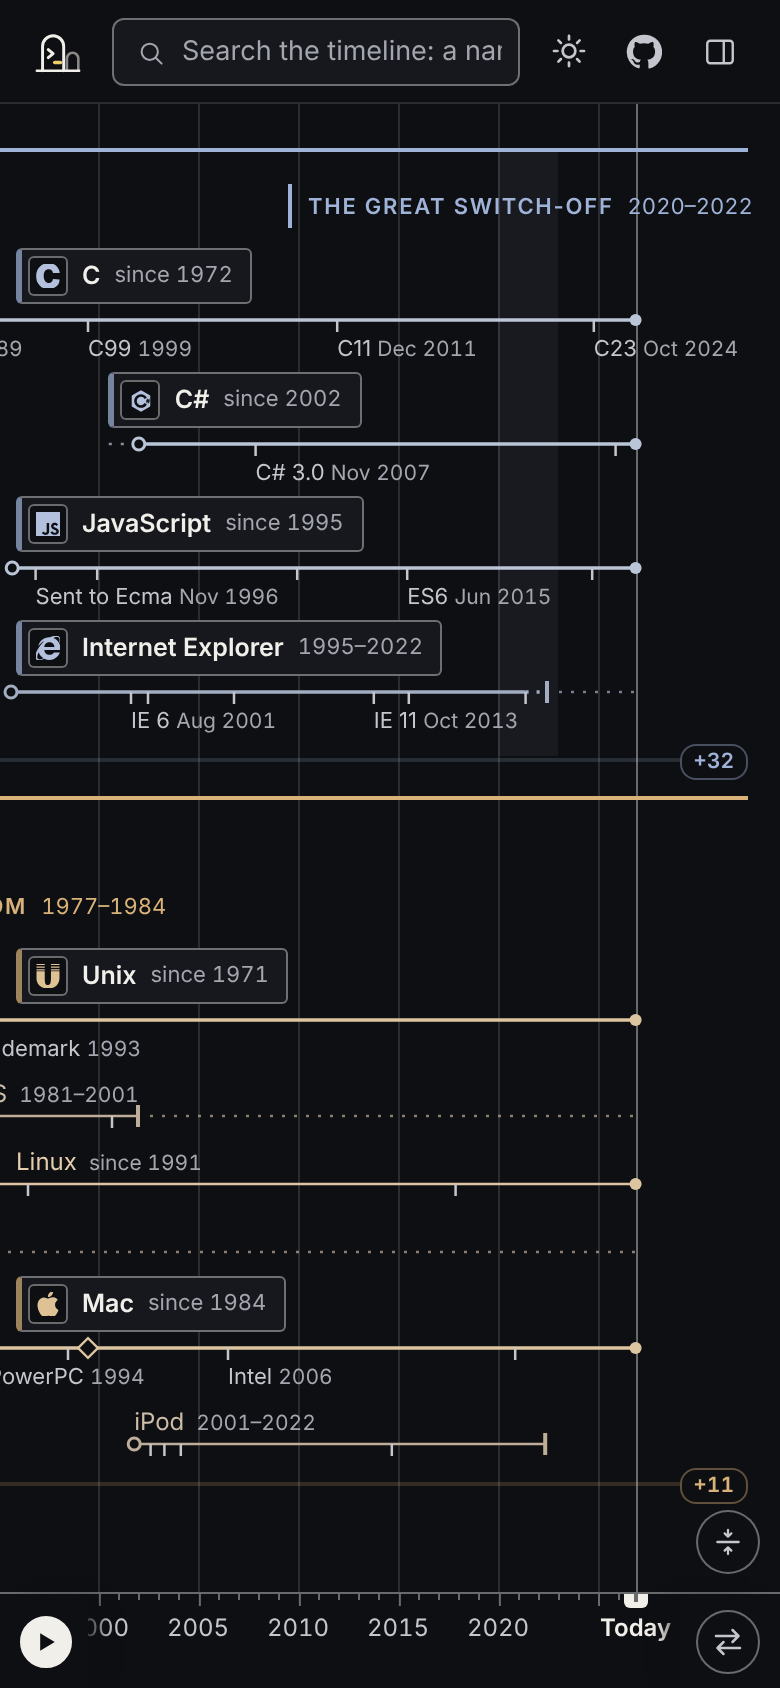
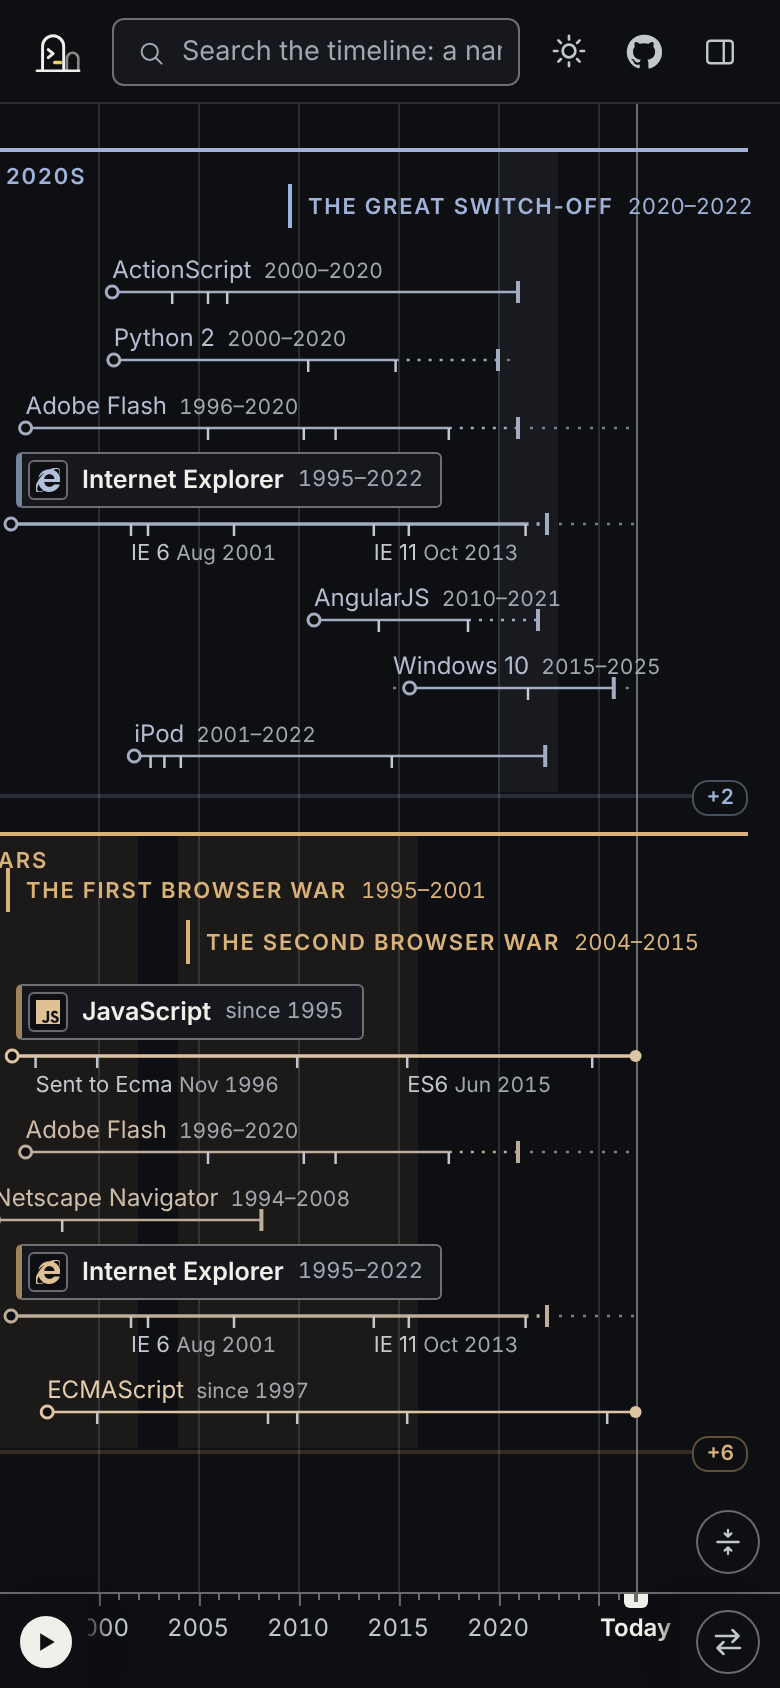
Show every view's own things, merge Classical into Featured, hand-pick the featured views
- A thing in two views on the timeline is now drawn in both sections. Before,
  it was drawn only under the first view, so a view added after one that
  already held all its things showed nothing.
- The panel list has two groups: Featured (every view by codegrave, the
  editors' picks first, then the category views) and Community.
- Endings of the 2020s and The browser wars are hand-picked lists that match
  their stories; the default timeline shows both.
- On phones the last section stops above the Fit button.

Claude-Session: https://claude.ai/code/session_01MCuMSgfje8M48jH2HnMH5A

diff --git a/site/app.js b/site/app.js
@@ -226,22 +226,33 @@ import { WEIGHTS, parseDate, score } from './rank.js';
   // ---------------------------------------------------------------- layout
   // Time runs left to right with the years along the bottom. Each view on the
   // timeline owns a block of rows, one row per thing. A thing that is in two
-  // views is drawn once, under the first.
+  // views is drawn in both, so every view shows all of its own things.
   const PAD_L = 84, PAD_PHONE = 72;  // room at the ends of the axis for play and reverse
   function layout() {
     const SW = $('stage').clientWidth;
     const narrow = SW < 700;
     const newest = state.order === 'new';
 
-    const groupOf = new Map();
+    const groupsOf = new Map();   // thing -> the views on the timeline that hold it
     const selected = state.views.map((id) => viewById.get(id));
-    for (const v of selected) for (const t of membersOf(v, state.level)) if (!groupOf.has(t)) groupOf.set(t, v);
+    const join = (t, v) => { const gs = groupsOf.get(t); if (!gs) groupsOf.set(t, [v]); else if (!gs.includes(v)) gs.push(v); };
+    for (const v of selected) for (const t of membersOf(v, state.level)) join(t, v);
     for (const id of state.pinned) {
       const t = byId.get(id);
-      if (!groupOf.has(t)) groupOf.set(t, selected.find((v) => v.cats.has(t.category)) || selected[selected.length - 1]);
+      if (!groupsOf.has(t)) join(t, selected.find((v) => v.cats.has(t.category)) || selected[selected.length - 1]);
     }
     // Rows are capped so the page stays fast at any data size: the best ranked come first.
-    const all = [...groupOf.keys()].sort((a, b) => (state.pinned.has(b.id) - state.pinned.has(a.id)) || (a.rank - b.rank) || (b.score - a.score)).slice(0, MAX_ROWS);
+    // The cap counts rows, so a thing drawn in two views counts twice.
+    const ranked = [...groupsOf.keys()].sort((a, b) => (state.pinned.has(b.id) - state.pinned.has(a.id)) || (a.rank - b.rank) || (b.score - a.score));
+    const rowsOf = new Map(selected.map((v) => [v, new Set()]));
+    let rowCount = 0;
+    const all = [];
+    for (const t of ranked) {
+      if (rowCount >= MAX_ROWS) break;
+      const gs = groupsOf.get(t).slice(0, MAX_ROWS - rowCount);
+      for (const v of gs) rowsOf.get(v).add(t);
+      rowCount += gs.length; all.push(t);
+    }
 
     // The years: fitted to what is shown, from a little before the first birth
     // to today, or to the last end when everything shown has ended. The
@@ -288,7 +299,7 @@ import { WEIGHTS, parseDate, score } from './rank.js';
     const byRank = (a, b) => (state.pinned.has(b.id) - state.pinned.has(a.id)) || (a.rank - b.rank) || (b.score - a.score);
     const secs = [];
     for (const g of selected) {
-      const mine = all.filter((t) => groupOf.get(t) === g && inSpan(t)).sort((a, b) => (catIndex(a) - catIndex(b)) || (a.born - b.born));
+      const mine = all.filter((t) => rowsOf.get(g).has(t) && inSpan(t)).sort((a, b) => (catIndex(a) - catIndex(b)) || (a.born - b.born));
       if (!mine.length) continue;
       const set = new Set(mine), seen = new Set(), ordered = [];
       const near = (t) => [
@@ -318,7 +329,7 @@ import { WEIGHTS, parseDate, score } from './rank.js';
       c.rows = c.ordered.filter((t) => keep.has(t)); c.used = used;
     };
     if (state.fit) {
-      const room = innerHeight - TOP - AXIS - (eraH + 6) - 12 - secs.reduce((n, c) => n + c.head + 24, 0);
+      const room = innerHeight - TOP - AXIS - (eraH + 6) - (narrow ? 48 : 12) - secs.reduce((n, c) => n + c.head + 24, 0);
       let pool = room, open = [];
       for (const c of secs) {
         const want = state.sizes.get(c.g.id);
@@ -366,7 +377,7 @@ import { WEIGHTS, parseDate, score } from './rank.js';
     }
     const height = Math.max(Math.round(y + 12), innerHeight - TOP - AXIS);
     L = { W, SW, narrow, height, ppy, tMin, tMax, fitMin, fitMax, xOf, tOf, newest, shown, groups, eras, eraH,
-      at: new Map(shown.map((p) => [p.t.id, p])), total: groupOf.size };
+      at: new Map([...shown].reverse().map((p) => [p.t.id, p])), total: groupsOf.size };
     return L;
   }
 
@@ -426,7 +437,7 @@ import { WEIGHTS, parseDate, score } from './rank.js';
     const covers = (p, t) => t >= p.t.born - 0.01 && t <= (p.t.end ?? NOW) + 0.01;
     for (const p of shown) {
       for (const l of p.t.links || []) {
-        const o = L.at.get(l.to);
+        const o = shown.find((q) => q.t.id === l.to && q.group === p.group);
         if (!o || o === p) continue;
         const branch = BRANCH.includes(l.type);
         if (!branch && !HANDOVER.includes(l.type)) continue;
@@ -444,7 +455,7 @@ import { WEIGHTS, parseDate, score } from './rank.js';
         if (Math.abs(p.y - o.y) >= 50) labs += `<span class="link-lab${hot ? ' open' : ''}" style="left:${x + 5}px;top:${(p.y + o.y) / 2 - 7}px">${LINK_LABELS[l.type]}</span>`;
       }
     }
-    for (const p of shown) {
+    shown.forEach((p, k) => {
       const { t, y } = p;
       const cls = 'thing' + (p.major ? ' major' : '') + (p.alive ? '' : ' dead') + (state.open === t.id ? ' open' : '');
       const cvar = `--c:var(--p${state.colors.get(p.group.id) % 8})`;
@@ -484,13 +495,13 @@ import { WEIGHTS, parseDate, score } from './rank.js';
       const open = state.open === t.id ? ' open' : '';
       const x0 = newest ? Math.max(p.xR, t.lead != null ? xOf(t.lead) : p.xR) : Math.max(4, Math.min(p.xL, t.lead != null ? xOf(t.lead) : p.xL));
       if (p.major) {
-        labs += `<button type="button" class="card${open}" data-id="${t.id}" style="${cvar};left:${x0}px;top:${y - 36}px">` +
+        labs += `<button type="button" class="card${open}" data-id="${t.id}" data-k="${k}" style="${cvar};left:${x0}px;top:${y - 36}px">` +
           `<span class="tile">${tileIcon(t)}</span><b>${esc(t.name)}</b><small>${years}</small></button>`;
       } else {
-        labs += `<button type="button" class="nm${p.alive ? '' : ' dead'}${open}" data-id="${t.id}" style="${cvar};left:${x0}px;top:${y - 19}px" title="${esc(t.name)}, ${years}">` +
+        labs += `<button type="button" class="nm${p.alive ? '' : ' dead'}${open}" data-id="${t.id}" data-k="${k}" style="${cvar};left:${x0}px;top:${y - 19}px" title="${esc(t.name)}, ${years}">` +
           `${esc(t.name)}<small>${years}</small></button>`;
       }
-    }
+    });
     const el = $('lines');
     el.setAttribute('viewBox', `0 0 ${W} ${height}`);
     el.setAttribute('width', W); el.setAttribute('height', height);
@@ -498,7 +509,7 @@ import { WEIGHTS, parseDate, score } from './rank.js';
     $('labels').innerHTML = labs;
     // A name near the right edge would run off the page, so it ends at the edge instead.
     for (const c of $('labels').querySelectorAll('.card, .nm')) {
-      const p = L.at.get(c.dataset.id);
+      const p = L.shown[c.dataset.k];
       p.nameEl = c; p.nameW = c.offsetWidth; p.nameX = parseFloat(c.style.left);
       if (newest) { p.nameX = Math.max(4, p.nameX - p.nameW); c.style.left = p.nameX + 'px'; }
       if (p.nameX + p.nameW > W - 6) { p.nameX = Math.max(4, W - 6 - p.nameW); c.style.left = p.nameX + 'px'; }
@@ -574,9 +585,9 @@ import { WEIGHTS, parseDate, score } from './rank.js';
     hits = [];
     if (q && L) {
       if (/^\d{4}$/.test(q) && Number(q) >= Math.ceil(L.tMin) && Number(q) <= Math.floor(L.tMax)) hits.push({ year: Number(q) });
-      for (const p of L.shown) if (p.t.search.some((n) => n.includes(q))) hits.push({ p, s: p.t.search.some((n) => n === q) ? 3 : p.t.search.some((n) => n.startsWith(q)) ? 2 : 1 });
+      for (const p of L.at.values()) if (p.t.search.some((n) => n.includes(q))) hits.push({ p, s: p.t.search.some((n) => n === q) ? 3 : p.t.search.some((n) => n.startsWith(q)) ? 2 : 1 });
       for (const e of [...L.eras, ...L.groups.flatMap((g) => g.eras)]) if (e.c.name.toLowerCase().includes(q)) hits.push({ era: e.c });
-      for (const p of L.shown) for (const m of p.t.marks) {
+      for (const p of L.at.values()) for (const m of p.t.marks) {
         if (m.label && (m.label.toLowerCase().includes(q) || m.note.toLowerCase().includes(q) || m.date.includes(q))) hits.push({ p, m });
       }
       hits.sort((a, b) => (!!b.year - !!a.year) || ((b.s || 0) - (a.s || 0)) || (!!b.era - !!a.era) || (!!a.m - !!b.m) || ((a.p && !a.m ? a.p.t.name.length : 0) - (b.p && !b.m ? b.p.t.name.length : 0)) || ((a.p ? a.p.t.rank : 0) - (b.p ? b.p.t.rank : 0)));
@@ -589,7 +600,7 @@ import { WEIGHTS, parseDate, score } from './rank.js';
       hits = hits.slice(0, away.length ? 6 : 9);
       for (const t of away) {
         const holders = views.views.filter((v) => inView(v, t, 101));
-        const v = holders.find((x) => (x.tags || []).includes('classical')) || holders.find((x) => !(x.tags || []).includes('all')) || holders[0];
+        const v = holders.find((x) => (x.tags || []).includes('category')) || holders.find((x) => !(x.tags || []).includes('all')) || holders[0];
         if (v) hits.push({ t, away: v });
       }
     }
@@ -664,7 +675,7 @@ import { WEIGHTS, parseDate, score } from './rank.js';
 
   function renderSide() {
     // What is on the timeline: one small pill per view, each with a cross.
-    const n = L ? L.shown.length : 0, more = L && L.total > MAX_ROWS ? ` of ${L.total}` : '';
+    const n = L ? L.at.size : 0, more = L && L.total > L.at.size ? ` of ${L.total}` : '';
     $('shown-n').textContent = state.views.length ? `${n}${more} ${n === 1 && !more ? 'thing' : 'things'}` : '';
     $('pills').innerHTML = !state.views.length ? '<span class="fine">Nothing yet. Tick a view above.</span>' : state.views.map((id) => {
       const v = viewById.get(id);
@@ -713,7 +724,7 @@ import { WEIGHTS, parseDate, score } from './rank.js';
   // The list: every view, ticked when it is on the timeline. Search narrows it
   // to views by their own words and by the things they hold, then things and years.
   let found = [], active = -1;
-  const KINDS = [['featured', 'Featured'], ['classical', 'Classical'], ['community', 'Community']];
+  const KINDS = [['featured', 'Featured'], ['community', 'Community']];
   const openGroups = new Set(['featured']);   // which groups of the list are unfolded
   function runSearch() {
     const q = $('vq').value.trim().toLowerCase();
@@ -753,12 +764,10 @@ import { WEIGHTS, parseDate, score } from './rank.js';
     const i = q ? text.toLowerCase().indexOf(q) : -1;
     return i < 0 ? esc(text) : esc(text.slice(0, i)) + '<mark>' + esc(text.slice(i, i + q.length)) + '</mark>' + esc(text.slice(i + q.length));
   }
-  // Classical views are one kind of thing each; featured ones are picked by the
-  // editors; community views come from anyone through a pull request.
+  // Featured views are made by codegrave, the editors' picks first, then one
+  // view per category; community views come from anyone through a pull request.
   function tabOf(v) {
-    if (v.author && v.author !== 'codegrave') return 'community';
-    if ((v.tags || []).includes('classical') || (v.tags || []).includes('all')) return 'classical';
-    return 'featured';
+    return v.author && v.author !== 'codegrave' ? 'community' : 'featured';
   }
   function drawResults() {
     const q = $('vq').value.trim().toLowerCase();

diff --git a/AGENTS.md b/AGENTS.md
@@ -72,7 +72,8 @@ How the page is put together:
   line is clicked. It has three panes: views, the history of one thing, and
   one era.
 - `state.views` is the list of views on the timeline. Each owns a block of
-  rows (a section) under its coloured heading line. A view's own eras
+  rows (a section) under its coloured heading line. A thing in two views is
+  drawn in both sections; `L.at` maps an id to its first row. A view's own eras
   (`checkpoints`) are drawn inside its section in its colour; there is no
   timeline-wide strip of eras (`data/checkpoints.json` is not drawn). The
   grip under a section drags it shorter or taller (`state.sizes`, pixels; a
@@ -84,7 +85,7 @@ How the page is put together:
   removes it, and shuffle mixes the colours (`?c=` in the link).
   There is no category control; categories only exist as views.
   The views pane is search, then one ticked list of every view (grouped
-  Classical, Featured, Community by `tabOf()`), then a sentence naming what
+  Featured, Community by `tabOf()`), then a sentence naming what
   is on the timeline, then the filters at the bottom: the year range
   (`state.span`) and how much to show (`state.level`).
 - Play sits at the bottom left of the axis and reverse (`state.order`) at
@@ -97,8 +98,9 @@ How the page is put together:
   view that holds it (the category view first). The GitHub icon next to the
   theme switch opens the repository. The panel's search
   finds views to add.
-- The panel list is grouped Featured (open), Classical, Community (folded,
-  `openGroups`). "Propose a view" at the end of Community links to the
+- The panel list is grouped Featured (open) and Community (folded,
+  `openGroups`). Featured is every view by codegrave, the editors' picks
+  first, then the category views. "Propose a view" at the end of Community links to the
   README's guide (`PROPOSE`); views arrive as pull requests, not from a form.
   The bookmark icon saves the timeline as "Your view" in
   this browser (`cg-mine`, one slot; saving again replaces it), and the

diff --git a/docs/VIEWS.md b/docs/VIEWS.md
@@ -10,13 +10,19 @@ has its own link, `codegrave.com/?views=<id>`, and a link can name several:
 There are no categories on the page. "Languages", "Browsers" and the rest are
 ordinary views, one per category, kept in `data/views/` like any other.
 
-The panel lists the views on the timeline, each with a minus button to take
-it off. Below, a search box finds views and things, and three tabs list views
-to add with a plus button:
+The panel has a search box that finds views and things, and one list of every
+view, ticked when it is on the timeline, in two groups:
 
-- **Classical**: views by `codegrave` tagged `classical` (one per category) or `all`.
-- **Featured**: the other views by `codegrave`, with those in `featured` first.
+- **Featured**: the views by `codegrave`. Those named in `featured` in
+  `data/editors-choice.json` come first, in that order, then the rest by name,
+  such as the one view per category (tagged `category`) and "Everything".
 - **Community**: every view whose `author` is someone else.
+
+Below the list, "Showing" has one row per view on the timeline: drag to
+reorder, the dot picks its colour, the cross takes it off.
+
+A thing that is in two views on the timeline is drawn in both sections, so
+every view always shows all of its own things.
 
 A view only chooses what to show. It never changes a fact. Dates, names,
 causes and ranks come from `data/things/` and are the same in every view.
